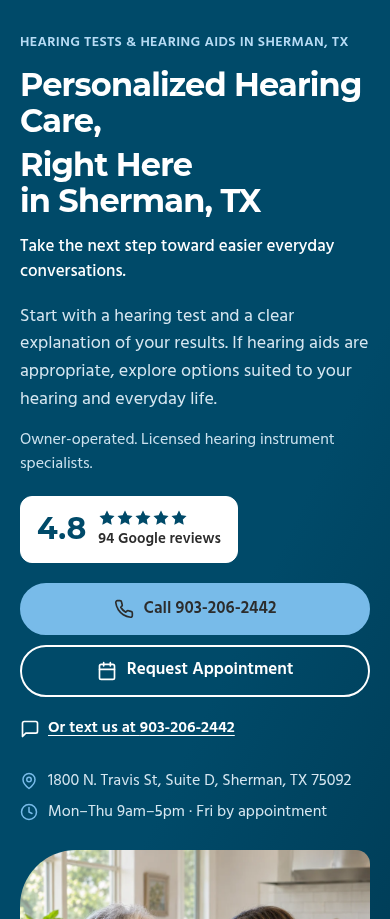
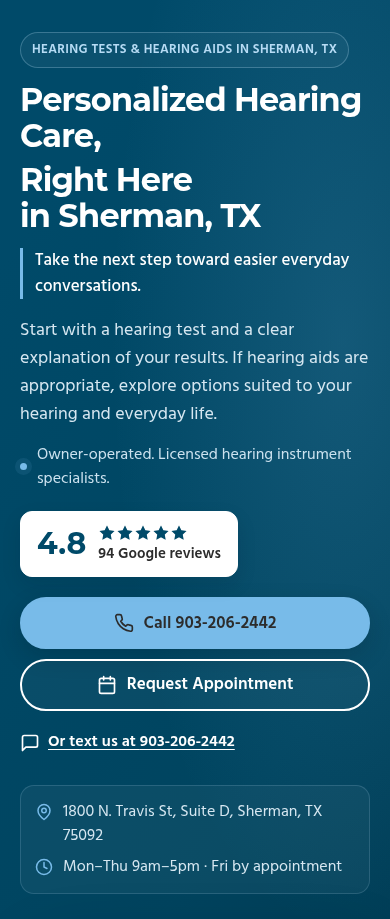
Polish Hero visual composition and photo framing

Changed region(s): [[0.0308, 0.0305, 0.9538, 1.0]]

diff --git a/index.html b/index.html
@@ -235,6 +235,33 @@ a:hover{ color:var(--hc-navy); }
   .hc-hero__media{ margin-top:26px; }
 }
 
+/* Visual refinement: approved Hero only; headline styling remains unchanged. */
+.hc-hero--split{ isolation:isolate; background:radial-gradient(ellipse at 88% 28%,rgba(120,187,233,.16),transparent 48%),linear-gradient(125deg,#004a69 15%,#00445f 65%,#00384f 100%); }
+.hc-hero__eyebrow{ display:inline-flex; align-items:center; padding:8px 13px; border:1px solid rgba(183,220,245,.27); border-radius:999px; background:rgba(255,255,255,.045); }
+.hc-hero__benefit{ padding-left:16px; border-left:3px solid var(--hc-sky); max-width:540px; }
+.hc-hero__lead{ max-width:540px; }
+.hc-hero__trust{ display:flex; align-items:center; gap:10px; }
+.hc-hero__trust::before{ content:""; width:7px; height:7px; flex:0 0 7px; border-radius:50%; background:var(--hc-sky); box-shadow:0 0 0 5px rgba(120,187,233,.1); }
+.hc-hero__media{ border-radius:140px 28px 28px 28px; box-shadow:0 28px 65px rgba(0,20,32,.24); }
+.hc-hero__media::after{ inset:16px -16px -16px 16px; border-radius:140px 28px 28px 28px; border-color:rgba(183,220,245,.34); background:rgba(120,187,233,.035); }
+.hc-hero__media img{ object-position:51% 75%; }
+.hc-hero--split .hc-btn--call{ box-shadow:0 8px 22px rgba(0,20,32,.18); }
+.hc-hero--split .hc-btn--appt{ background:rgba(255,255,255,.035); }
+.hc-hero--split .hc-btn--appt:hover{ background:var(--hc-white); }
+.hc-facts{ margin-top:20px; padding:16px 18px; background:rgba(255,255,255,.045); border:1px solid rgba(183,220,245,.17); border-radius:14px; }
+.hc-badge{ padding:20px 24px; border-radius:18px; box-shadow:0 16px 36px rgba(0,20,32,.22); }
+@media (max-width:1023px){
+ .hc-hero__media{ border-radius:72px 20px 20px 20px; }
+ .hc-hero__media img{ object-position:50% 46%; }
+ .hc-badge{ padding:12px 16px; border-radius:12px; box-shadow:0 8px 20px rgba(0,20,32,.1); }
+}
+@media (max-width:639px){
+ .hc-hero__eyebrow{ display:block; width:fit-content; padding:7px 11px; font-size:.8125rem; }
+ .hc-hero__benefit{ padding-left:12px; }
+ .hc-facts{ padding:14px; }
+ .hc-hero__media{ border-radius:56px 16px 16px 16px; }
+}
+
 /* Stars */
 .hc-stars{ position:relative; display:inline-flex; line-height:0; }
 .hc-stars svg{ width:18px; height:18px; flex:none; }

diff --git a/review/hero-review.html b/review/hero-review.html
@@ -235,6 +235,33 @@ a:hover{ color:var(--hc-navy); }
   .hc-hero__media{ margin-top:26px; }
 }
 
+/* Visual refinement: approved Hero only; headline styling remains unchanged. */
+.hc-hero--split{ isolation:isolate; background:radial-gradient(ellipse at 88% 28%,rgba(120,187,233,.16),transparent 48%),linear-gradient(125deg,#004a69 15%,#00445f 65%,#00384f 100%); }
+.hc-hero__eyebrow{ display:inline-flex; align-items:center; padding:8px 13px; border:1px solid rgba(183,220,245,.27); border-radius:999px; background:rgba(255,255,255,.045); }
+.hc-hero__benefit{ padding-left:16px; border-left:3px solid var(--hc-sky); max-width:540px; }
+.hc-hero__lead{ max-width:540px; }
+.hc-hero__trust{ display:flex; align-items:center; gap:10px; }
+.hc-hero__trust::before{ content:""; width:7px; height:7px; flex:0 0 7px; border-radius:50%; background:var(--hc-sky); box-shadow:0 0 0 5px rgba(120,187,233,.1); }
+.hc-hero__media{ border-radius:140px 28px 28px 28px; box-shadow:0 28px 65px rgba(0,20,32,.24); }
+.hc-hero__media::after{ inset:16px -16px -16px 16px; border-radius:140px 28px 28px 28px; border-color:rgba(183,220,245,.34); background:rgba(120,187,233,.035); }
+.hc-hero__media img{ object-position:51% 75%; }
+.hc-hero--split .hc-btn--call{ box-shadow:0 8px 22px rgba(0,20,32,.18); }
+.hc-hero--split .hc-btn--appt{ background:rgba(255,255,255,.035); }
+.hc-hero--split .hc-btn--appt:hover{ background:var(--hc-white); }
+.hc-facts{ margin-top:20px; padding:16px 18px; background:rgba(255,255,255,.045); border:1px solid rgba(183,220,245,.17); border-radius:14px; }
+.hc-badge{ padding:20px 24px; border-radius:18px; box-shadow:0 16px 36px rgba(0,20,32,.22); }
+@media (max-width:1023px){
+ .hc-hero__media{ border-radius:72px 20px 20px 20px; }
+ .hc-hero__media img{ object-position:50% 46%; }
+ .hc-badge{ padding:12px 16px; border-radius:12px; box-shadow:0 8px 20px rgba(0,20,32,.1); }
+}
+@media (max-width:639px){
+ .hc-hero__eyebrow{ display:block; width:fit-content; padding:7px 11px; font-size:.8125rem; }
+ .hc-hero__benefit{ padding-left:12px; }
+ .hc-facts{ padding:14px; }
+ .hc-hero__media{ border-radius:56px 16px 16px 16px; }
+}
+
 /* Stars */
 .hc-stars{ position:relative; display:inline-flex; line-height:0; }
 .hc-stars svg{ width:18px; height:18px; flex:none; }

diff --git a/review/HERO_REVIEW.md b/review/HERO_REVIEW.md
@@ -56,3 +56,7 @@ User requested removal of the break after Personalized, improved hierarchy and b
 The user requested one uniform headline color and font size, plus TX after Sherman. The current headline uses the same white, responsive size and weight throughout, reading “Personalized Hearing Care, Right Here in Sherman, TX.” Earlier notes about smaller/lighter location text are superseded. Seven-width Hero checks passed after this correction.
 
 Latest delivery update: the complete HTML now uses the user-supplied GHL Hero image URL directly. Base64 embedding and the former local srcset were removed; layout and interactions are unchanged.
+
+## Visual finish update
+
+User requested a more beautiful Hero. Added tonal navy depth, a restrained service capsule, benefit accent, sculpted photo frame, softer proof/CTA shadows and a compact location panel. All body markup, wording, headline typography, hosted image URL and scripts are byte-identical to the preceding version. Seven-width overflow/contact/dialog checks passed. Local screenshot previews used the existing approved image file as a cache for the supplied GHL URL; live CDN availability was not reverified. Pending user visual approval.

diff --git a/DESIGN_SYSTEM.md b/DESIGN_SYSTEM.md
@@ -173,3 +173,7 @@ The user requested improved visual hierarchy, removal of the break after “Pers
 ## Subsequent headline correction
 
 User requested uniform color and font size throughout the entire headline and TX after Sherman. The current H1 is “Personalized Hearing Care, Right Here in Sherman, TX.” Both lines inherit the same white color, responsive font size and weight; the earlier smaller/lighter location treatment is superseded. Keep Sherman and TX together when wrapping. Other layout, copy and actions remain unchanged. Pending rendered approval.
+
+## Hero visual refinement
+
+The user clarified that the current Hero should be made more beautiful. Apply visual styling only: restrained navy tonal depth, a fine-bordered service capsule, an accent rule beside the existing benefit, a larger sculpted photo corner with subtle offset frame/shadow, gentle CTA depth, and a contained translucent location/hours panel. Preserve every word, heading color/font size/weight, GHL-hosted image URL, proof placement, links and integration scripts. Mobile simplifies these treatments without additional imagery. Pending rendered approval; no other section is changed or locked.

diff --git a/PAGE_STRATEGY.md b/PAGE_STRATEGY.md
@@ -194,3 +194,7 @@ The user requested improved visual hierarchy, removal of the break after “Pers
 ## Subsequent headline correction
 
 User requested uniform color and font size throughout the entire headline and TX after Sherman. The current H1 is “Personalized Hearing Care, Right Here in Sherman, TX.” Both lines inherit the same white color, responsive font size and weight; the earlier smaller/lighter location treatment is superseded. Keep Sherman and TX together when wrapping. Other layout, copy and actions remain unchanged. Pending rendered approval.
+
+## Hero visual refinement
+
+The user clarified that the current Hero should be made more beautiful. Apply visual styling only: restrained navy tonal depth, a fine-bordered service capsule, an accent rule beside the existing benefit, a larger sculpted photo corner with subtle offset frame/shadow, gentle CTA depth, and a contained translucent location/hours panel. Preserve every word, heading color/font size/weight, GHL-hosted image URL, proof placement, links and integration scripts. Mobile simplifies these treatments without additional imagery. Pending rendered approval; no other section is changed or locked.

diff --git a/IMAGE_PROMPTS.md b/IMAGE_PROMPTS.md
@@ -198,3 +198,5 @@ If the practice can photograph an actual device it fits, in a staff member's han
 ## User-supplied GHL hosting update
 
 The user uploaded the approved AI-created Hero image to GHL and explicitly requested its insertion. Current IMG-HERO-01 source: https://files.leadconnectorhq.com/file/6af3305fddcd97ce5aa8a0c8/hearcare-kitchen-conversation.webp . The HTML now uses this hosted URL directly, without Base64 or the former local srcset. Existing dimensions, crop, alt, image ID and priority are preserved. Local WebP files remain archival assets; they are not the active image source. The scene remains an AI-created illustration, not practice/patient evidence.
+
+Latest visual refinement retains the GHL-hosted IMG-HERO-01 source. Desktop CSS uses object-position 51% / 75% to give the conversation more emphasis; tablet/mobile retain 50% / 46%. The frame has a larger curved corner and restrained depth. No image regeneration or factual attribution change.
